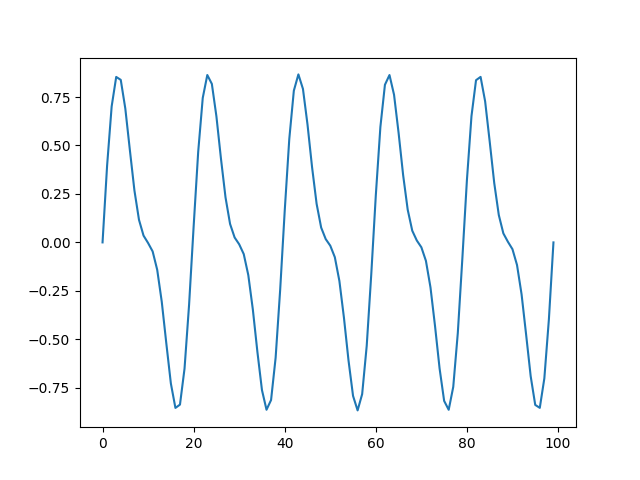
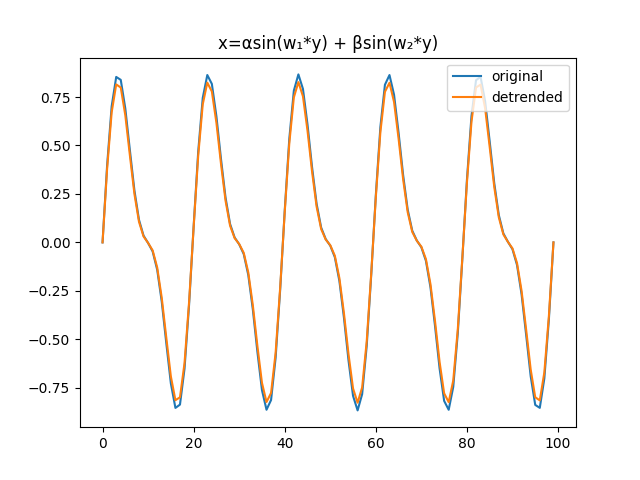
images and little fft and plots titles  fixes

diff --git a/main.py b/main.py
@@ -34,6 +34,7 @@ def removeTrend(data):
 
 def FFT(data):
     # fft_result = fft.FFT(data)
+    # plt.plot(fft_result, label='fft-transform')
 
     fs = 1000 # ???
     fft_result = fft.FFT(data)
@@ -52,7 +53,6 @@ def FFT(data):
     plt.title('Спектр сигнала')
     plt.xlabel('Частота (Гц)')
     plt.ylabel('Амплитуда')
-    # plt.plot(fft_result, label='fft-transform')
     plt.legend(loc='best')
 
     plt.show()
@@ -83,15 +83,15 @@ def main(data):
 
 # Одночастотный сигнал
 single_frequency_data = sfs.getData()
-plt.title('Отображение x=sin(wy)')
+plt.title('x=sin(wy)')
 main(single_frequency_data)
 
 # Двухчастотный сигнал
 two_frequency_data = tfs.getData()
-plt.title('Отображение x=αsin(w₁*y) + βsin(w₂*y)')
+plt.title('x=αsin(w₁*y) + βsin(w₂*y)')
 main(two_frequency_data)
 
 # Отображение гладкой функции
 smooth_displaying_data = sms.getData()
-plt.title('Отображение xₙ₊₁=4(1-xₙ)xₙ')
+plt.title('xₙ₊₁=4(1-xₙ)xₙ')
 main(smooth_displaying_data)

diff --git a/fft.py b/fft.py
@@ -15,7 +15,8 @@ def FFT(x):
     if N <= 32:
         return DFT(x)
     elif N % 2 > 0:
-        raise ValueError("The variable of x must be even")
+        return DFT(x)
+        # raise ValueError("The variable of x must be even")
     else:
         X_even = FFT(x[::2])
         X_odd = FFT(x[1::2])
